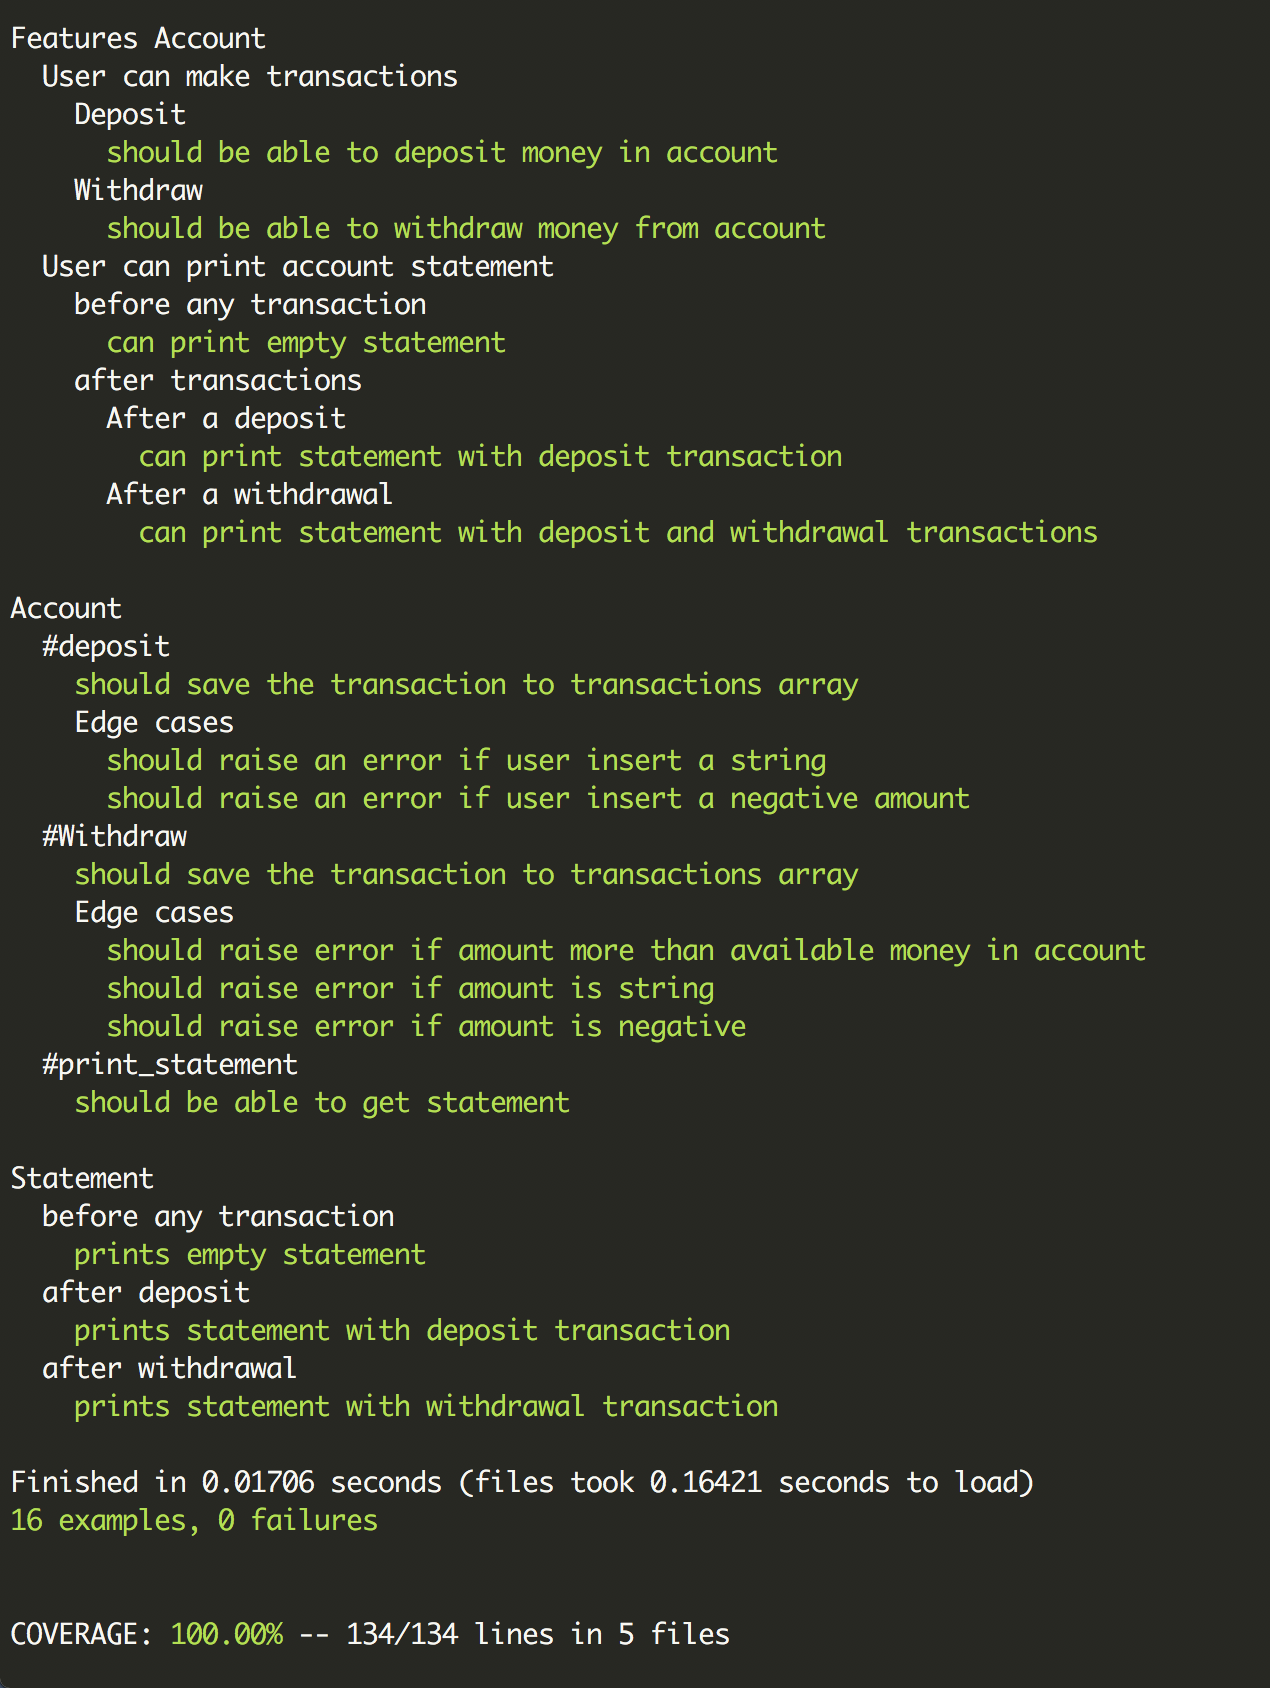
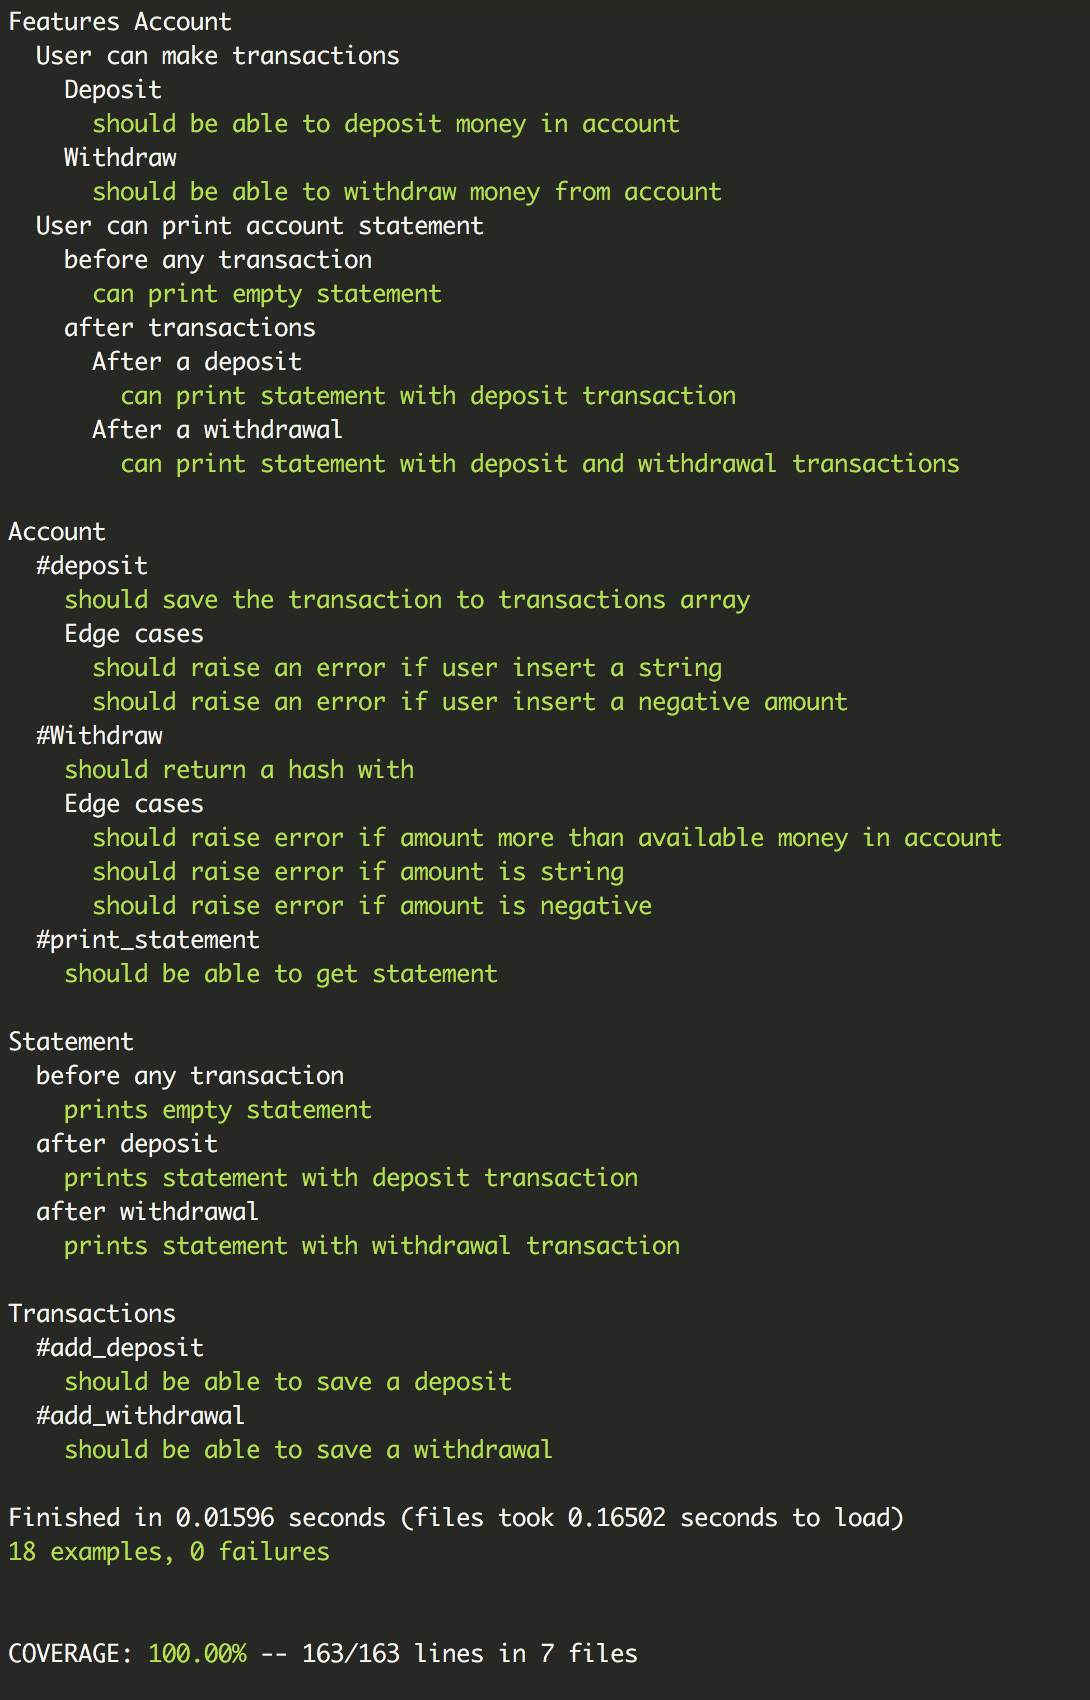
Extracted transactions into its own class

diff --git a/spec/unit/account_spec.rb b/spec/unit/account_spec.rb
@@ -1,7 +1,18 @@
 require 'account'
 
 describe Account do
-  subject(:account) { described_class.new }
+  subject(:transactions) do
+    double('transactions', history: [], add_deposit: { date: '19/09/2018',
+                                            credit: '1000.00',
+                                            balance: '1000.00',
+                                            type: 'credit' },
+                                      add_withdrawal: { date: '19/09/2018',
+                                            debit: '500.00',
+                                            balance: '500.00',
+                                            type: 'debit' })
+  end
+  
+  subject(:account) { described_class.new(transactions) }
   subject(:statement) do
     double('statement', return_statement: 'Date || Credit'\
    " || Debit || Balance\n19/09/2018 || 1000.00 || || 1000.00\n")
@@ -10,12 +21,11 @@ describe Account do
   context '#deposit' do
     it 'should save the transaction to transactions array' do
       allow(Date).to receive(:today).and_return(Date.parse('19/09/2018'))
-      account.deposit(1000)
 
-      expect(account.transactions).to include(date: '19/09/2018',
+      expect(account.deposit(1000)).to eq({ date: '19/09/2018',
                                               credit: '1000.00',
                                               balance: '1000.00',
-                                              type: 'credit')
+                                              type: 'credit' })
     end
 
     context 'Edge cases' do
@@ -34,15 +44,14 @@ describe Account do
   end
 
   context '#Withdraw' do
-    it 'should save the transaction to transactions array' do
+    it 'should return a hash with ' do
       allow(Date).to receive(:today).and_return(Date.parse('19/09/2018'))
       account.deposit(1000)
-      account.withdraw(500)
 
-      expect(account.transactions).to include(date: '19/09/2018',
+      expect(account.withdraw(500)).to eq({ date: '19/09/2018',
                                               debit: '500.00',
                                               balance: '500.00',
-                                              type: 'debit')
+                                              type: 'debit' })
     end
 
     context 'Edge cases' do
@@ -74,7 +83,7 @@ describe Account do
 
   context '#print_statement' do
     it 'should be able to get statement' do
-      account2 = Account.new(statement)
+      account2 = Account.new(statement, transactions)
       allow(Date).to receive(:today).and_return(Date.parse('19/09/2018'))
       account2.deposit(1000)
 

diff --git a/spec/feature/feature_spec.rb b/spec/feature/feature_spec.rb
@@ -1,11 +1,13 @@
 require 'account'
 require 'statement'
+require 'transactions'
 
 describe 'Features Account' do
   describe 'User can make transactions' do
     context 'Deposit' do
       it 'should be able to deposit money in account' do
-        account = Account.new
+        transactions = Transactions.new
+        account = Account.new(transactions)
         account.deposit(1000)
 
         expect(account.balance).to eq(1000)
@@ -14,7 +16,8 @@ describe 'Features Account' do
 
     context 'Withdraw' do
       it 'should be able to withdraw money from account' do
-        account = Account.new
+        transactions = Transactions.new
+        account = Account.new(transactions)
         account.deposit(1000)
         account.withdraw(500)
 
@@ -26,7 +29,8 @@ describe 'Features Account' do
   describe 'User can print account statement' do
     context 'before any transaction' do
       it 'can print empty statement' do
-        account = Account.new
+        transactions = Transactions.new
+        account = Account.new(transactions)
 
         expect { account.print_statement }.to output('Date || Credit || Debit'\
           " || Balance\n").to_stdout
@@ -36,7 +40,8 @@ describe 'Features Account' do
     context 'after transactions' do
       context 'After a deposit' do
         it 'can print statement with deposit transaction' do
-          account = Account.new
+          transactions = Transactions.new
+          account = Account.new(transactions)
           allow(Date).to receive(:today).and_return(Date.parse('19/09/2018'))
           account.deposit(1000)
 
@@ -47,7 +52,8 @@ describe 'Features Account' do
 
       context 'After a withdrawal' do
         it 'can print statement with deposit and withdrawal transactions' do
-          account = Account.new
+          transactions = Transactions.new
+          account = Account.new(transactions)
           allow(Date).to receive(:today).and_return(Date.parse('19/09/2018'))
           account.deposit(1000)
           account.withdraw(500)

diff --git a/lib/account.rb b/lib/account.rb
@@ -3,9 +3,9 @@ require 'date'
 class Account
   attr_reader :balance, :transactions
 
-  def initialize(statement = Statement.new)
+  def initialize(statement = Statement.new, transactions)
     @balance = 0
-    @transactions = []
+    @transactions = transactions
     @statement = statement
   end
 
@@ -14,10 +14,7 @@ class Account
     raise 'Deposit cannot be negative!' if amount.negative?
 
     @balance += amount
-    @transactions << { date: date_today,
-                       credit: format_price(amount),
-                       balance: format_price(@balance),
-                       type: 'credit' }
+    @transactions.add_deposit(amount, @balance)
   end
 
   def withdraw(amount)
@@ -26,23 +23,10 @@ class Account
     raise 'Withdrawal amount cannot be negative!' if amount.negative?
 
     @balance -= amount
-    @transactions << { date: date_today,
-                       debit: format_price(amount),
-                       balance: format_price(@balance),
-                       type: 'debit' }
+    @transactions.add_withdrawal(amount, @balance)
   end
 
   def print_statement
-    puts @statement.return_statement(@transactions)
-  end
-
-  private
-
-  def date_today
-    Date.today.strftime('%d/%m/%Y')
-  end
-
-  def format_price(price)
-    format('%.2f', price)
+    puts @statement.return_statement(@transactions.history)
   end
 end

diff --git a/spec/unit/transactions_spec.rb b/spec/unit/transactions_spec.rb
@@ -1,0 +1,31 @@
+require 'transactions'
+
+describe Transactions do
+  let(:account) { double('account') }
+  let(:transactions) { described_class.new }
+
+  context '#add_deposit' do
+    it 'should be able to save a deposit' do
+      allow(Date).to receive(:today).and_return(Date.parse('19/09/2018'))
+      transactions.add_deposit(1000, 1000)
+
+      expect(transactions.history).to include(date: '19/09/2018',
+      credit: '1000.00',
+      balance: '1000.00',
+      type: 'credit')
+    end
+  end
+
+  context '#add_withdrawal' do
+    it 'should be able to save a withdrawal' do
+      allow(Date).to receive(:today).and_return(Date.parse('19/09/2018'))
+      transactions.add_deposit(1000, 1000)
+
+      transactions.add_withdrawal(500, 500)
+      expect(transactions.history).to include(date: '19/09/2018',
+        debit: '500.00',
+        balance: '500.00',
+        type: 'debit')
+    end
+  end
+end

diff --git a/lib/transactions.rb b/lib/transactions.rb
@@ -1,0 +1,31 @@
+class Transactions
+  attr_reader :history
+
+  def initialize
+    @history = []
+  end
+
+  def add_deposit(amount, balance)
+    @history << { date: date_today,
+                       credit: format_price(amount),
+                       balance: format_price(balance),
+                       type: 'credit' }
+  end
+
+  def add_withdrawal(amount, balance)
+    @history << { date: date_today,
+                       debit: format_price(amount),
+                       balance: format_price(balance),
+                       type: 'debit' }
+  end
+
+  private
+
+  def date_today
+    Date.today.strftime('%d/%m/%Y')
+  end
+
+  def format_price(price)
+    format('%.2f', price)
+  end
+end

diff --git a/lib/statement.rb b/lib/statement.rb
@@ -1,7 +1,7 @@
 class Statement
-  def return_statement(transactions)
+  def return_statement(history)
     statement = header
-    transactions.reverse_each do |transaction|
+    history.reverse_each do |transaction|
       if credit?(transaction)
         statement += "\n#{transaction[:date]} || #{transaction[:credit]} ||"\
         " || #{transaction[:balance]}"

diff --git a/README.md b/README.md
@@ -45,47 +45,27 @@ I can print a statement showing all my transactions
 
 - In the command line, run `pry` or `irb`
 
-- Require code files:
-
-  - `require './lib/account.rb'`
-
-  - `require './lib/statement.rb'`
-
-- Create a new account
-
-  - `account = Account.new`
-
-- Deposit money in your account
-
-  - `account.deposit(1000)`
-
-  - `account.deposit(2000)`
-
-- Withdraw money from your account
-
-  - `account.withdraw(500)`
-
-- Print an account statement to see all your transactions
-  - `account.get_statement`
-
-  Here is an example:
 
 ```rb
-  [1] pry(main)> require './lib/account.rb'
+[1] pry(main)> require './lib/account.rb'
 => true
-[2] pry(main)> require './lib/statement.rb'
+[2] pry(main)> require './lib/transactions.rb'
 => true
-[3] pry(main)> account = Account.new
-=> #<Account:0x00007fcd050883b8 @balance=0, @statement=#<Statement:0x00007fcd050882f0>, @transactions=[]>
-[4] pry(main)> account.deposit(1000)
+[3] pry(main)> require './lib/statement.rb'
+=> true
+[4] pry(main)> transactions = Transactions.new
+=> #<Transactions:0x00007ff7c72585c0 @history=[]>
+[5] pry(main)> account = Account.new(transactions)
+=> #<Account:0x00007ff7c9194ad8 @balance=0, @statement=#<Statement:0x00007ff7c9194a88>, @transactions=#<Transactions:0x00007ff7c72585c0 @history=[]>>
+[6] pry(main)> account.deposit(1000)
 => [{:date=>"06/11/2018", :credit=>"1000.00", :balance=>"1000.00", :type=>"credit"}]
-[5] pry(main)> account.deposit(2000)
+[7] pry(main)> account.deposit(2000)
 => [{:date=>"06/11/2018", :credit=>"1000.00", :balance=>"1000.00", :type=>"credit"}, {:date=>"06/11/2018", :credit=>"2000.00", :balance=>"3000.00", :type=>"credit"}]
-[6] pry(main)> account.withdraw(500)
+[8] pry(main)> account.withdraw(500)
 => [{:date=>"06/11/2018", :credit=>"1000.00", :balance=>"1000.00", :type=>"credit"},
  {:date=>"06/11/2018", :credit=>"2000.00", :balance=>"3000.00", :type=>"credit"},
  {:date=>"06/11/2018", :debit=>"500.00", :balance=>"2500.00", :type=>"debit"}]
-[7] pry(main)> account.print_statement
+[9] pry(main)> account.print_statement
 Date || Credit || Debit || Balance
 06/11/2018 || || 500.00 || 2500.00
 06/11/2018 || 2000.00 || || 3000.00
